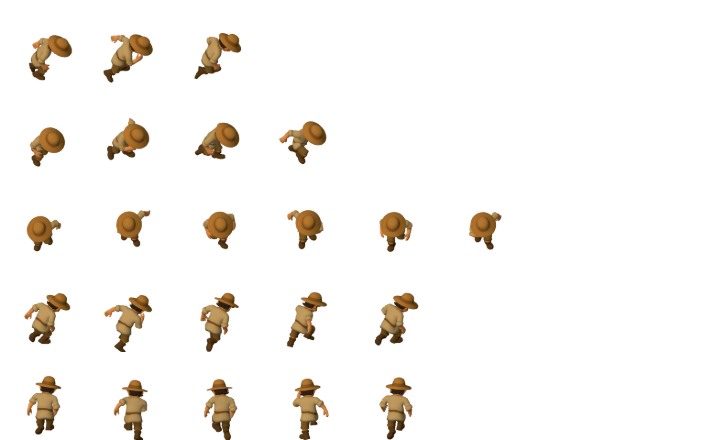
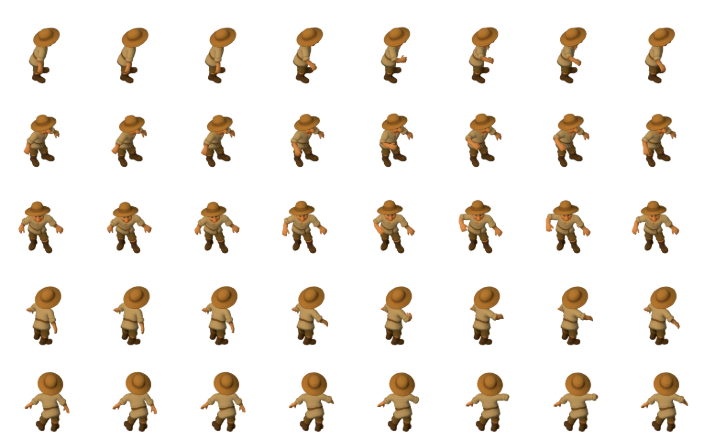
Arbeitsbewegungen aller Außenberufe neu: handgeposte 8-Frame-Zyklen, Werkzeuge als eigenständige Overlay-Blätter
Warum: Die alten atk-Blätter waren durchweg kaputt - die Tripo-Angriffsclips
schieben die Figur aus dem Bild (2-5 leere Spalten je Zeile, Figur blinkte im
Spiel), Werkzeuge waren teils an Hand UND Fuß gebunden (Holzfälleraxt zog sich
beim Heben zur Linie, Planierer-Schaufel schwebte lose neben der Figur) und
keine Bewegung passte zum Beruf. Deshalb je Beruf ein handgeschriebener
Schlüsselbild-Zyklus auf dem gemeinsamen Rig, Kontaktmoment fest auf Spalte 4
(Ton/Effekt-Synchronität unabhängig vom Abspieltempo):

- Holzfäller: seitlicher Fällschlag waagerecht gegen den Stamm (nicht senkrecht)
- Planierer: Schaufelstich in den Boden mit Aushub-Schwung zur Seite
- Steinmetz: Klüpfel schlägt auf den Meißel in der linken Hand
- Bauer: Sä-Wurf aus dem Saatsack (liest sich bei 60px besser als die Sense)
- Fischer: Auswerfen der Rute, danach ruhiges Halten (im Spiel verlangsamt)
- Bauarbeiter: Hammerschläge aufs Werkstück vor ihm
- Geologe: kniend mit dem Hämmerchen klopfen
- Bergmann: Hackenschlag schräg von oben, leicht in den Knien

Werkzeuge eigenständig (Spielerwunsch): kaputt gebundene Werkzeug-Inseln werden
per Zusammenhangs-Analyse aus dem Mesh getrennt; saubere prozedurale Werkzeuge
hängen am Handknochen und werden in einem zweiten Durchgang ALLEIN gebacken
(Figur nur als Tiefen-Verdecker, dadurch korrekte Verdeckung hinter dem
Körper). unit_<beruf>_atk_tool.png liegt im Spiel deckungsgleich über der
Figur - ein Figuren-Blatt, Werkzeug austauschbar.
[…]

diff --git a/tools/bake-sprites.html b/tools/bake-sprites.html
@@ -92,8 +92,204 @@ window.poseAdd=(rots)=>{
   root.updateMatrixWorld(true);
 };
 window.bones=()=>[...boneMap.keys()];
+// Weltposition eines Knochens in der AKTUELLEN Pose (nach bake/center/poseAdd)
+// – für numerische Achsen-Kalibrierung statt Augenmaß
+window.bonePos=(name)=>{
+  const b=boneMap.get(name);
+  if(!b) return null;
+  root.updateMatrixWorld(true);
+  const v=new THREE.Vector3();
+  b.getWorldPosition(v);
+  return { x:+v.x.toFixed(4), y:+v.y.toFixed(4), z:+v.z.toFixed(4) };
+};
 
 window.info=()=> clips.map(c=>({name:c.name, duration:c.duration}));
+
+// ---- Werkzeug-Verwaltung -------------------------------------------------
+// Der Spieler wünscht Werkzeuge GETRENNT von der Figur: die Figur wird ohne
+// Werkzeug gebacken, das Werkzeug in einem zweiten Durchgang allein – dabei
+// bleibt die Figur als unsichtbarer Tiefen-Verdecker stehen, damit das
+// Werkzeug hinter dem Körper korrekt verdeckt wird. Beide Blätter teilen
+// Kamera und Pose und liegen deshalb im Spiel pixelgenau übereinander.
+window.meshes=()=>{
+  const out=[];
+  root.traverse(o=>{
+    if(o.isMesh){
+      let p=o.parent, chain=[];
+      while(p && p!==root){ chain.push(p.name); p=p.parent; }
+      out.push({ name:o.name, skinned:!!o.isSkinnedMesh, parents:chain.slice(0,4) });
+    }
+  });
+  return out;
+};
+window.setVis=(pattern,on)=>{
+  const re=new RegExp(pattern,'i'); let n=0;
+  root.traverse(o=>{ if(o.isMesh && re.test(o.name)){ o.visible=on; n++; } });
+  return n;
+};
+// Geist-Modus: Mesh bleibt in der Tiefe (verdeckt), zeichnet aber keine Farbe
+window.ghost=(pattern,on)=>{
+  const re=new RegExp(pattern,'i'); let n=0;
+  root.traverse(o=>{
+    if(o.isMesh && re.test(o.name)){
+      const ms=Array.isArray(o.material)?o.material:[o.material];
+      ms.forEach(m=>{ m.colorWrite=!on; });
+      n++;
+    }
+  });
+  return n;
+};
+// Prozedurale Werkzeuge im Stil der Low-Poly-Figuren (flache Farben). Für
+// Modelle, deren GLB kein (brauchbares) Werkzeug enthält. Das Werkzeug hängt
+// am Handknochen und folgt damit jeder Pose automatisch.
+// Stahl bewusst gedeckt (Stilguide: warme, stumpfe Farben – kein Weißblitzen)
+const TOOL_MATS={ wood:0x7a5a33, woodDark:0x5d4426, steel:0x767d83, steelDark:0x51565b };
+function mat(c){ return new THREE.MeshStandardMaterial({ color:c, roughness:0.75, metalness:0.05 }); }
+let toolGroups=[];
+window.toolClear=()=>{ toolGroups.forEach(g=>{ if(g.parent) g.parent.remove(g); }); toolGroups=[]; };
+// kind: axe|shovel|pick|hammer|chisel|mallet|scythe|rod|sack
+// Grundausrichtung: Stiel entlang +Y (aus der Faust nach oben), Kopf am +Y-Ende.
+// Mehrfach aufrufbar (Klüpfel + Meißel); toolClear() räumt alle ab.
+window.toolAttach=(kind, boneName, pos=[0,0,0], rotDeg=[0,0,0], scale=1)=>{
+  const b=boneMap.get(boneName);
+  if(!b) return 'KEIN KNOCHEN '+boneName;
+  const gph=new THREE.Group(); gph.name='TOOL_'+kind;
+  const cyl=(r1,r2,h,m)=>new THREE.Mesh(new THREE.CylinderGeometry(r1,r2,h,7),m);
+  const box=(x,y,z,m)=>new THREE.Mesh(new THREE.BoxGeometry(x,y,z),m);
+  const wood=mat(TOOL_MATS.wood), wood2=mat(TOOL_MATS.woodDark),
+        steel=mat(TOOL_MATS.steel), steel2=mat(TOOL_MATS.steelDark);
+  if(kind==='axe'){
+    const st=cyl(0.013,0.017,0.34,wood); st.position.y=0.10; gph.add(st);
+    const kopf=box(0.10,0.052,0.020,steel); kopf.position.set(0.038,0.26,0); gph.add(kopf);
+    const schneide=box(0.016,0.062,0.024,steel2); schneide.position.set(0.086,0.26,0); gph.add(schneide);
+  } else if(kind==='shovel'){
+    const st=cyl(0.014,0.016,0.42,wood); st.position.y=0.12; gph.add(st);
+    const blatt=box(0.062,0.088,0.012,steel); blatt.position.set(0,0.36,0); gph.add(blatt);
+    const spitze=box(0.05,0.02,0.012,steel2); spitze.position.set(0,0.41,0); gph.add(spitze);
+  } else if(kind==='pick'){
+    const st=cyl(0.014,0.018,0.36,wood); st.position.y=0.11; gph.add(st);
+    // Spitzhacke: zwei gebogene Zinken quer zum Stiel
+    const z1=cyl(0.008,0.020,0.15,steel); z1.rotation.z=Math.PI/2-0.35; z1.position.set(0.075,0.275,0); gph.add(z1);
+    const z2=cyl(0.008,0.020,0.15,steel); z2.rotation.z=-(Math.PI/2-0.35); z2.position.set(-0.075,0.275,0); gph.add(z2);
+  } else if(kind==='hammer'){
+    const st=cyl(0.012,0.015,0.24,wood); st.position.y=0.07; gph.add(st);
+    const kopf=box(0.052,0.046,0.10,steel); kopf.position.set(0,0.185,0); gph.add(kopf);
+  } else if(kind==='chisel'){
+    const k=cyl(0.016,0.02,0.20,steel); k.position.y=0.07; gph.add(k);
+    const sp=cyl(0.004,0.016,0.04,steel2); sp.position.y=0.19; gph.add(sp);
+  } else if(kind==='mallet'){
+    const st=cyl(0.012,0.014,0.20,wood); st.position.y=0.05; gph.add(st);
+    const kopf=cyl(0.05,0.05,0.10,wood2); kopf.rotation.x=Math.PI/2; kopf.position.set(0,0.16,0); gph.add(kopf);
+  } else if(kind==='scythe'){
+    // Sense: langer Stiel, kurzer Quergriff, gebogenes Blatt quer am Ende
+    const st=cyl(0.013,0.016,0.62,wood); st.position.y=0.17; gph.add(st);
+    const griff=cyl(0.010,0.010,0.09,wood2); griff.rotation.x=Math.PI/2; griff.position.set(0,0.30,0.035); gph.add(griff);
+    const seg=(a,l,y,x)=>{ const s=box(l,0.017,0.012,steel); s.rotation.y=a; s.position.set(x,y,0); return s; };
+    gph.add(seg(0.0,0.14,0.475,0.065));
+    gph.add(seg(0.5,0.13,0.475,0.175));
+    gph.add(seg(1.0,0.11,0.475,0.265));
+  } else if(kind==='rod'){
+    // Angelrute: dünn, kurz genug für den festen Bildausschnitt
+    const st=cyl(0.006,0.012,0.42,wood); st.position.y=0.13; gph.add(st);
+    const sp=cyl(0.004,0.006,0.16,wood2); sp.position.y=0.42; gph.add(sp);
+  } else if(kind==='sack'){
+    const s=new THREE.Mesh(new THREE.SphereGeometry(0.085,7,6), mat(0xa3814e));
+    s.scale.set(1,1.2,0.85); s.position.y=0.05; gph.add(s);
+    const kragen=cyl(0.03,0.04,0.05,mat(0x8a6f42)); kragen.position.y=0.15; gph.add(kragen);
+  }
+  gph.position.set(pos[0],pos[1],pos[2]);
+  gph.rotation.set(rotDeg[0]*Math.PI/180, rotDeg[1]*Math.PI/180, rotDeg[2]*Math.PI/180);
+  gph.scale.setScalar(scale);
+  b.add(gph);
+  toolGroups.push(gph);
+  return 'ok';
+};
+// ---- Inseln: Werkzeuge stecken als eigene Zusammenhangs-Komponenten im
+// EINEN SkinnedMesh der Tripo-Modelle. Über die Dreiecks-Nachbarschaft lassen
+// sie sich finden und abtrennen (Axt/Schaufel/Rute raus aus der Figur).
+function mainSkin(){ let sm=null; root.traverse(o=>{ if(!sm && o.isSkinnedMesh) sm=o; }); return sm; }
+window.islands=()=>{
+  const sm=mainSkin(); if(!sm) return [];
+  const idx=sm.geometry.index.array, pos=sm.geometry.attributes.position,
+        si=sm.geometry.attributes.skinIndex, swt=sm.geometry.attributes.skinWeight;
+  const parent=new Int32Array(pos.count); for(let i=0;i<pos.count;i++) parent[i]=i;
+  const find=(a)=>{ while(parent[a]!==a){ parent[a]=parent[parent[a]]; a=parent[a]; } return a; };
+  const uni=(a,b)=>{ a=find(a); b=find(b); if(a!==b) parent[a]=b; };
+  for(let t=0;t<idx.length;t+=3){ uni(idx[t],idx[t+1]); uni(idx[t+1],idx[t+2]); }
+  const stats=new Map();
+  for(let i=0;i<pos.count;i++){
+    const r=find(i);
+    let s=stats.get(r);
+    if(!s){ s={id:r, verts:0, tris:0, min:[1e9,1e9,1e9], max:[-1e9,-1e9,-1e9], boneW:new Map()}; stats.set(r,s); }
+    s.verts++;
+    for(let d=0;d<3;d++){
+      const v=pos.getComponent(i,d);
+      if(v<s.min[d]) s.min[d]=v;
+      if(v>s.max[d]) s.max[d]=v;
+    }
+    for(let k=0;k<4;k++){
+      const b=si.getComponent(i,k), w=swt.getComponent(i,k);
+      if(w>0.01) s.boneW.set(b,(s.boneW.get(b)||0)+w);
+    }
+  }
+  for(let t=0;t<idx.length;t+=3){ stats.get(find(idx[t])).tris++; }
+  const bones2=sm.skeleton.bones;
+  return [...stats.values()].map(s=>{
+    const top=[...s.boneW.entries()].sort((a,b)=>b[1]-a[1]).slice(0,6)
+      .map(([b,w])=>bones2[b]? bones2[b].name+':'+w.toFixed(2) : '?'+b);
+    return { id:s.id, verts:s.verts, tris:s.tris,
+      min:s.min.map(v=>+v.toFixed(3)), max:s.max.map(v=>+v.toFixed(3)), bones:top };
+  }).sort((a,b)=>b.verts-a.verts);
+};
+// Nur bestimmte Inseln zeigen (Diagnose: welche Insel ist das Werkzeug?)
+let fullIndex=null;
+window.isolate=(ids)=>{
+  const sm=mainSkin(); if(!sm) return 'KEIN MESH';
+  if(!fullIndex) fullIndex=sm.geometry.index.array.slice();
+  if(!ids){ sm.geometry.setIndex([...fullIndex]); return 'alles'; }
+  const n=sm.geometry.attributes.position.count;
+  const parent=new Int32Array(n); for(let i=0;i<n;i++) parent[i]=i;
+  const find=(a)=>{ while(parent[a]!==a){ parent[a]=parent[parent[a]]; a=parent[a]; } return a; };
+  const uni=(a,b)=>{ a=find(a); b=find(b); if(a!==b) parent[a]=b; };
+  for(let t=0;t<fullIndex.length;t+=3){ uni(fullIndex[t],fullIndex[t+1]); uni(fullIndex[t+1],fullIndex[t+2]); }
+  const roots=new Set(ids.map(i=>find(i)));
+  const keep=[];
+  for(let t=0;t<fullIndex.length;t+=3)
+    if(roots.has(find(fullIndex[t]))) keep.push(fullIndex[t],fullIndex[t+1],fullIndex[t+2]);
+  sm.geometry.setIndex(keep);
+  return keep.length/3;
+};
+// Inseln abtrennen: toolIds wandern in ein eigenes (mit-geskintes) Mesh,
+// der Rest bleibt die Figur. So bäckt Durchgang A die Figur ohne Werkzeug
+// und Durchgang B das Werkzeug allein (Figur nur als Tiefen-Verdecker).
+let toolMesh=null;
+window.splitIslands=(toolIds)=>{
+  const sm=mainSkin(); if(!sm) return 'KEIN MESH';
+  const idx=sm.geometry.index.array, n=sm.geometry.attributes.position.count;
+  const parent=new Int32Array(n); for(let i=0;i<n;i++) parent[i]=i;
+  const find=(a)=>{ while(parent[a]!==a){ parent[a]=parent[parent[a]]; a=parent[a]; } return a; };
+  const uni=(a,b)=>{ a=find(a); b=find(b); if(a!==b) parent[a]=b; };
+  for(let t=0;t<idx.length;t+=3){ uni(idx[t],idx[t+1]); uni(idx[t+1],idx[t+2]); }
+  const roots=new Set(toolIds.map(i=>find(i)));
+  const tool=[], body=[];
+  for(let t=0;t<idx.length;t+=3)
+    (roots.has(find(idx[t]))?tool:body).push(idx[t],idx[t+1],idx[t+2]);
+  const gTool=new THREE.BufferGeometry();
+  for(const k in sm.geometry.attributes) gTool.setAttribute(k, sm.geometry.attributes[k]);
+  gTool.setIndex(tool);
+  toolMesh=new THREE.SkinnedMesh(gTool, sm.material.clone());
+  toolMesh.bindMode=sm.bindMode;
+  sm.parent.add(toolMesh);
+  toolMesh.bind(sm.skeleton, sm.bindMatrix);
+  sm.geometry.setIndex(body);
+  return { toolTris:tool.length/3, bodyTris:body.length/3 };
+};
+// Werkzeug-Sichtbarkeit für die zwei Back-Durchgänge (prozedural UND Insel)
+window.toolVis=(on)=>{ toolGroups.forEach(g=>{ g.visible=on; }); if(toolMesh) toolMesh.visible=on; };
+// Abgetrenntes Insel-Werkzeug endgültig verwerfen (kaputte eingebaute
+// Werkzeuge: verzerrte Bindungen an Hand UND Fuß) – danach zählt nur noch
+// das prozedurale Werkzeug
+window.toolDiscard=()=>{ if(toolMesh&&toolMesh.parent) toolMesh.parent.remove(toolMesh); toolMesh=null; };
 
 // Bildausschnitt festlegen: HÖHEN-dominant (eine breite Arbeitspose darf die
 // Figur nicht schrumpfen) und so verschoben, dass die FÜSSE knapp über dem
@@ -162,11 +358,13 @@ function recenter(){
   root.updateMatrixWorld(true);
 }
 
-// Mittelpunkt der geskinnten Box an einem Zeitpunkt (für Drift-Ausgleich)
-window.center=(clipName, t, yawDeg)=>{
+// Mittelpunkt der geskinnten Box an einem Zeitpunkt (für Drift-Ausgleich);
+// extra = zusätzliche Knochendrehungen wie bei bake() (Hand-Posen)
+window.center=(clipName, t, yawDeg, extra=null)=>{
   const clip=clips.find(c=>c.name===clipName)||clips[0];
   mixer.stopAllAction();
   if(clip){ const a=mixer.clipAction(clip); a.play(); mixer.setTime(Math.min(t, clip.duration-0.001)); }
+  if(extra) window.poseAdd(extra);
   root.rotation.y=yawDeg*Math.PI/180;
   root.position.set(0,0,0);
   const bb=skinnedBox();

diff --git a/js/render.js b/js/render.js
@@ -5654,7 +5654,14 @@ export class Renderer {
       // ist) wird Frame 0 eingefroren - niemand marschiert auf der Stelle.
       k= mov ? Math.floor(this.time/62 + (this._animSeed||0))%n : 0;
     } else if(set==='atk'){
-      k=Math.floor(this.time/85 + (fight||0)*2.1)%n;
+      // Arbeitstakt je Beruf: schwere Schläge langsamer als flinkes Hämmern;
+      // der Fischer wirft aus und HÄLT dann die Rute (deshalb am längsten).
+      // Der Kontaktmoment liegt bei allen fest auf Spalte 4 - Frame-Dauer
+      // ändern verschiebt ihn nicht, nur das Tempo.
+      const ATK_MS={ unit_fisher:240, unit_farm:135, unit_woodcutter:115,
+        unit_leveler:125, unit_quarry:100, unit_builder:95, unit_geo:120,
+        unit_miner:110 };
+      k=Math.floor(this.time/(ATK_MS[baseKey]||85) + (fight||0)*2.1)%n;
     } else {
       // Warten mit Leben: meist ruhige Grundpose, alle paar Sekunden eine
       // Geste (Fußtippen, Umschauen, Recken – aus dem Warte-Clip)
@@ -5664,7 +5671,7 @@ export class Renderer {
       else k=0;                                 // ruhig stehen
     }
     const sw=img.naturalWidth/n, sh=img.naturalHeight/5;
-    return {img, sx:k*sw, sy:row*sh, sw, sh, flip};
+    return {img, sx:k*sw, sy:row*sh, sw, sh, flip, set};
   }
   // Esel: kleines Packtier (Bild-Asset unit_donkey oder prozedural)
   drawDonkey(g,x,y,dir,mov){
@@ -5812,6 +5819,15 @@ export class Renderer {
       if(anim.flip) g.scale(-1,1);
       if(load) g.rotate((anim.flip?-1:1)*0.045*load);
       g.drawImage(anim.img, anim.sx, anim.sy, anim.sw, anim.sh, -ww/2, -hh, ww, hh);
+      // Eigenständiges Werkzeug (Spielerwunsch): das Arbeitsgerät liegt als
+      // deckungsgleich gebackenes Overlay-Blatt über der Figur. Verdeckung
+      // hinter dem Körper steckt bereits im Blatt (Tiefen-Pass beim Backen),
+      // deshalb genügt hier einfaches Darüberzeichnen mit derselben Zelle.
+      if(anim.set==='atk'){
+        const tl=this.asset(baseKey+'_atk_tool');
+        if(tl && tl.naturalWidth===anim.img.naturalWidth)
+          g.drawImage(tl, anim.sx, anim.sy, anim.sw, anim.sh, -ww/2, -hh, ww, hh);
+      }
       // Umhang/Helmbusch der Soldaten in Spielerfarbe einfärben
       if(kind==='soldier'){
         const mk=this.unitMask(anim.img);
